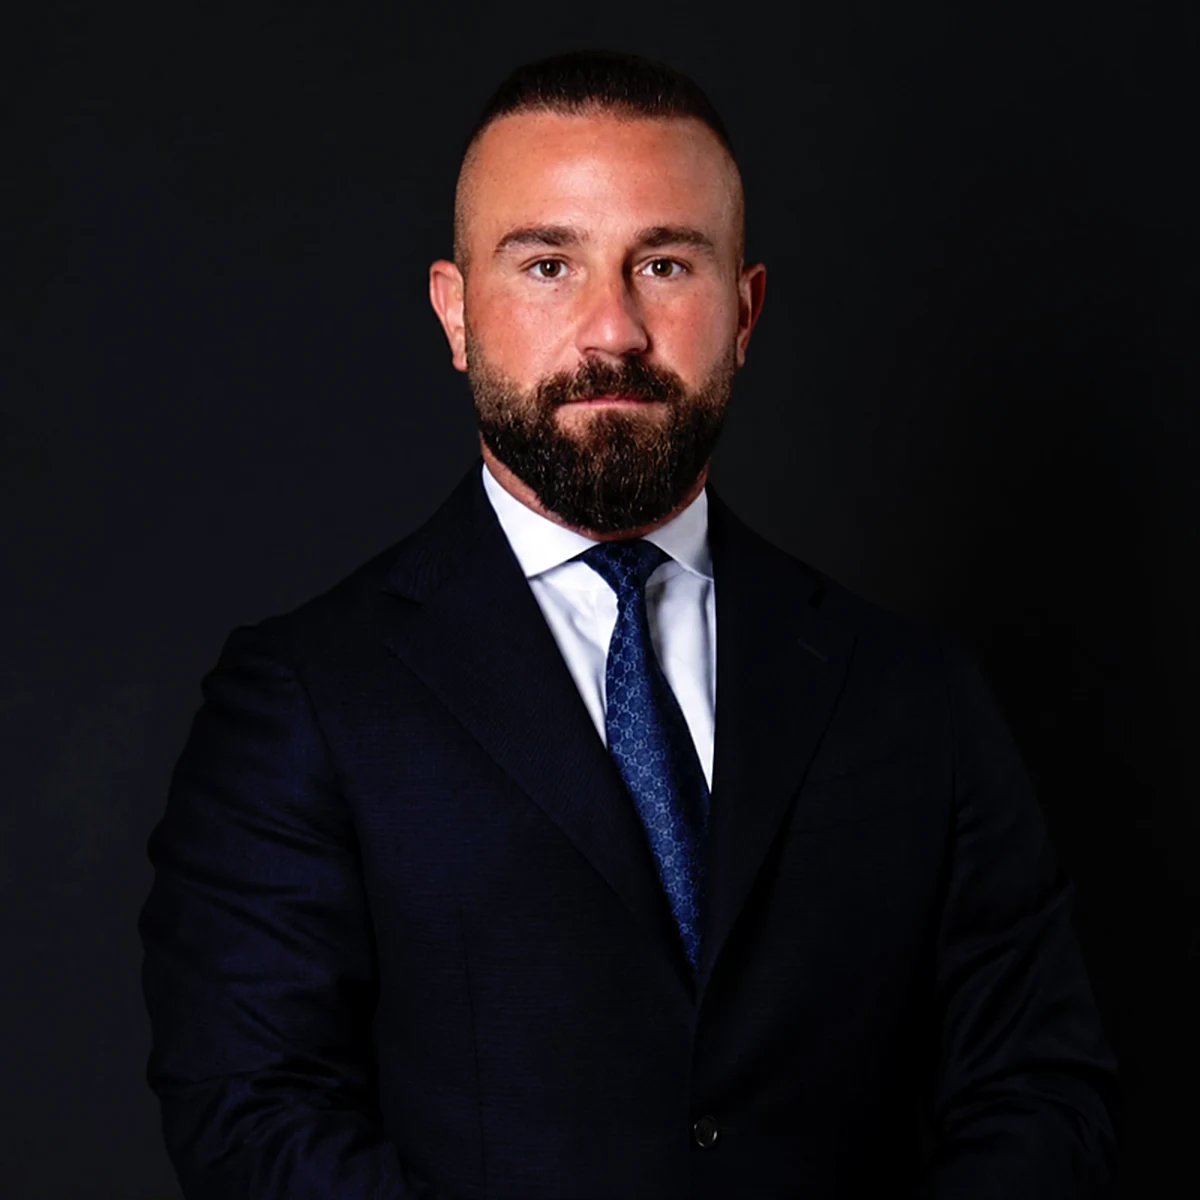
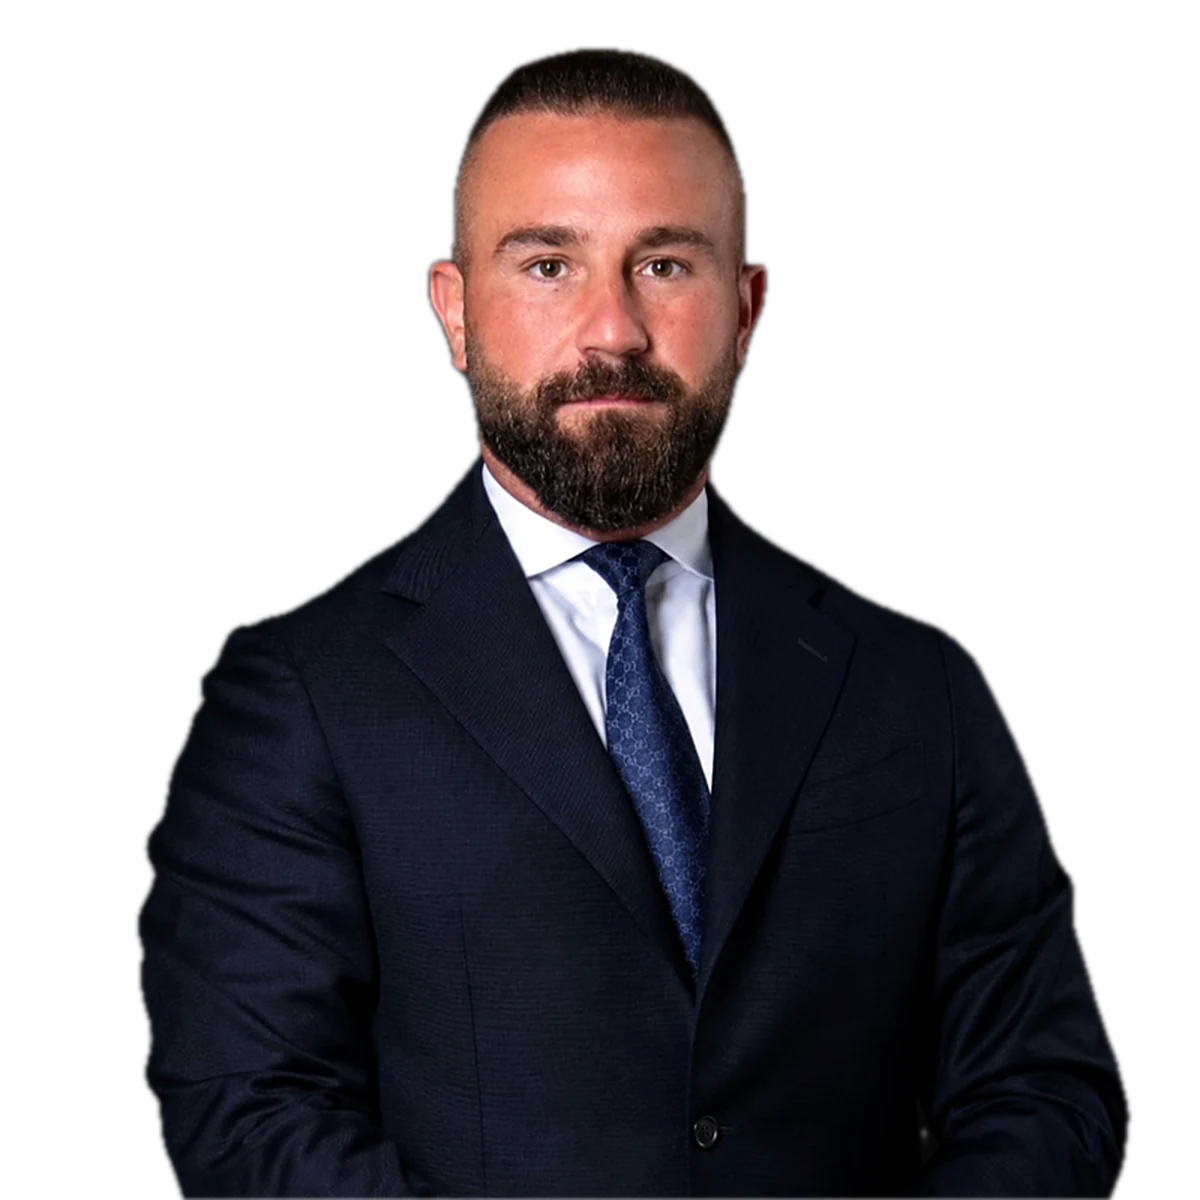
Cut out hero portrait background on device

diff --git a/scripts/cutout.swift b/scripts/cutout.swift
@@ -1,0 +1,32 @@
+// Lifts the subject out of a photo using Apple's on-device Vision framework
+// (the same model as "Copy Subject" in Photos) and writes a transparent PNG.
+// Usage: swift scripts/cutout.swift <input.jpg> <output.png>
+import Foundation
+import Vision
+import CoreImage
+import ImageIO
+import UniformTypeIdentifiers
+
+let args = CommandLine.arguments
+guard args.count == 3 else { fatalError("usage: cutout.swift in out") }
+let inURL = URL(fileURLWithPath: args[1])
+let outURL = URL(fileURLWithPath: args[2])
+
+guard let src = CGImageSourceCreateWithURL(inURL as CFURL, nil),
+      let cg = CGImageSourceCreateImageAtIndex(src, 0, nil) else { fatalError("cannot read input") }
+
+let request = VNGenerateForegroundInstanceMaskRequest()
+let handler = VNImageRequestHandler(cgImage: cg, options: [:])
+try handler.perform([request])
+guard let result = request.results?.first else { fatalError("no subject found") }
+
+let masked = try result.generateMaskedImage(
+  ofInstances: result.allInstances, from: handler, croppedToInstancesExtent: false)
+
+let ci = CIImage(cvPixelBuffer: masked)
+let ctx = CIContext()
+guard let outCG = ctx.createCGImage(ci, from: ci.extent) else { fatalError("render failed") }
+guard let dest = CGImageDestinationCreateWithURL(outURL as CFURL, UTType.png.identifier as CFString, 1, nil) else { fatalError("cannot write") }
+CGImageDestinationAddImage(dest, outCG, nil)
+CGImageDestinationFinalize(dest)
+print("wrote \(outURL.path) \(outCG.width)x\(outCG.height)")

diff --git a/scripts/portrait-grade.py b/scripts/portrait-grade.py
@@ -1,33 +1,37 @@
-"""Hero portrait grade: deepens the studio backdrop toward the site's charcoal,
-adds contrast and a touch of warmth, then sharpens. Writes portrait-hero-*.webp.
+"""Hero portrait: grades the subject cut-out (transparent background) and writes
+portrait-hero-*.webp with alpha. The cut-out comes from scripts/cutout.swift
+(Apple Vision, on-device):  swift scripts/cutout.swift assets/linkedin-portrait-800.jpg assets/portrait-cutout.png
 Run: python3 scripts/portrait-grade.py"""
 from pathlib import Path
 from PIL import Image, ImageEnhance, ImageFilter
 
 ROOT = Path(__file__).resolve().parent.parent
-src = Image.open(ROOT / "assets/linkedin-portrait-800.jpg").convert("RGB")
+src = Image.open(ROOT / "assets/portrait-cutout.png").convert("RGBA")
+rgb, alpha = src.convert("RGB"), src.getchannel("A")
 
-# Tone curve: 0→0, 44→19 (backdrop meets #121212), 90→78, 255→255
-pts = [(0, 0), (44, 19), (90, 78), (170, 172), (255, 255)]
+# Gentle S-curve for depth: 0→0, 40→34, 128→130, 220→228, 255→255
+pts = [(0, 0), (40, 34), (128, 130), (220, 228), (255, 255)]
 def curve(v):
     for (x0, y0), (x1, y1) in zip(pts, pts[1:]):
         if v <= x1:
             return round(y0 + (y1 - y0) * (v - x0) / (x1 - x0))
     return 255
-lut = [curve(v) for v in range(256)]
-im = src.point(lut * 3)
+rgb = rgb.point([curve(v) for v in range(256)] * 3)
 
-# Slight warmth: lift red, trim blue in the mids
-r, g, b = im.split()
+# A whisper of warmth, then contrast
+r, g, b = rgb.split()
 r = r.point(lambda v: min(255, round(v * 1.012)))
 b = b.point(lambda v: round(v * 0.985))
-im = Image.merge("RGB", (r, g, b))
-im = ImageEnhance.Contrast(im).enhance(1.05)
+rgb = ImageEnhance.Contrast(Image.merge("RGB", (r, g, b))).enhance(1.05)
+
+# Soften the matte edge by a hair so hair/shoulders don't look cut with scissors
+alpha = alpha.filter(ImageFilter.GaussianBlur(0.6))
+graded = Image.merge("RGBA", (*rgb.split(), alpha))
 
 out = ROOT / "public/media"
 for w in (480, 800, 1200):
-    size = (w, w)
-    v = im.resize(size, Image.LANCZOS)
-    v = v.filter(ImageFilter.UnsharpMask(radius=1.4 if w > 800 else 1.0, percent=70, threshold=2))
-    v.save(out / f"portrait-hero-{w}.webp", "WEBP", quality=88, method=6)
-print("ok", im.getpixel((60, 200)), im.getpixel((400, 10)))
+    v = graded.resize((w, w), Image.LANCZOS)
+    c = v.convert("RGB").filter(ImageFilter.UnsharpMask(radius=1.4 if w > 800 else 1.0, percent=70, threshold=2))
+    Image.merge("RGBA", (*c.split(), v.getchannel("A"))).save(
+        out / f"portrait-hero-{w}.webp", "WEBP", quality=88, method=6)
+print("ok")
